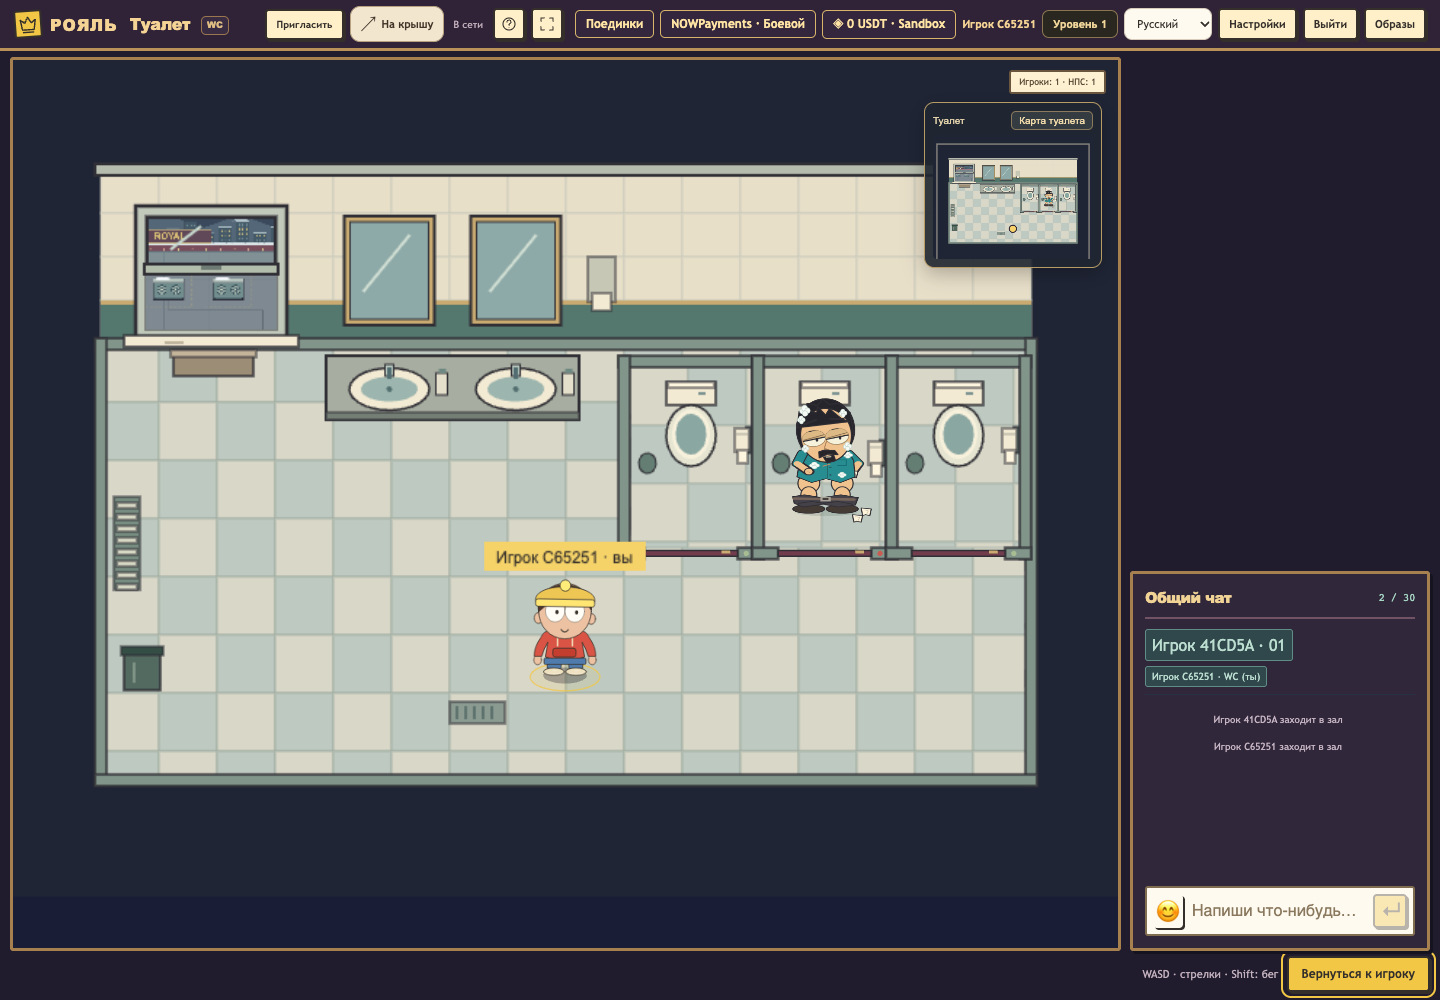
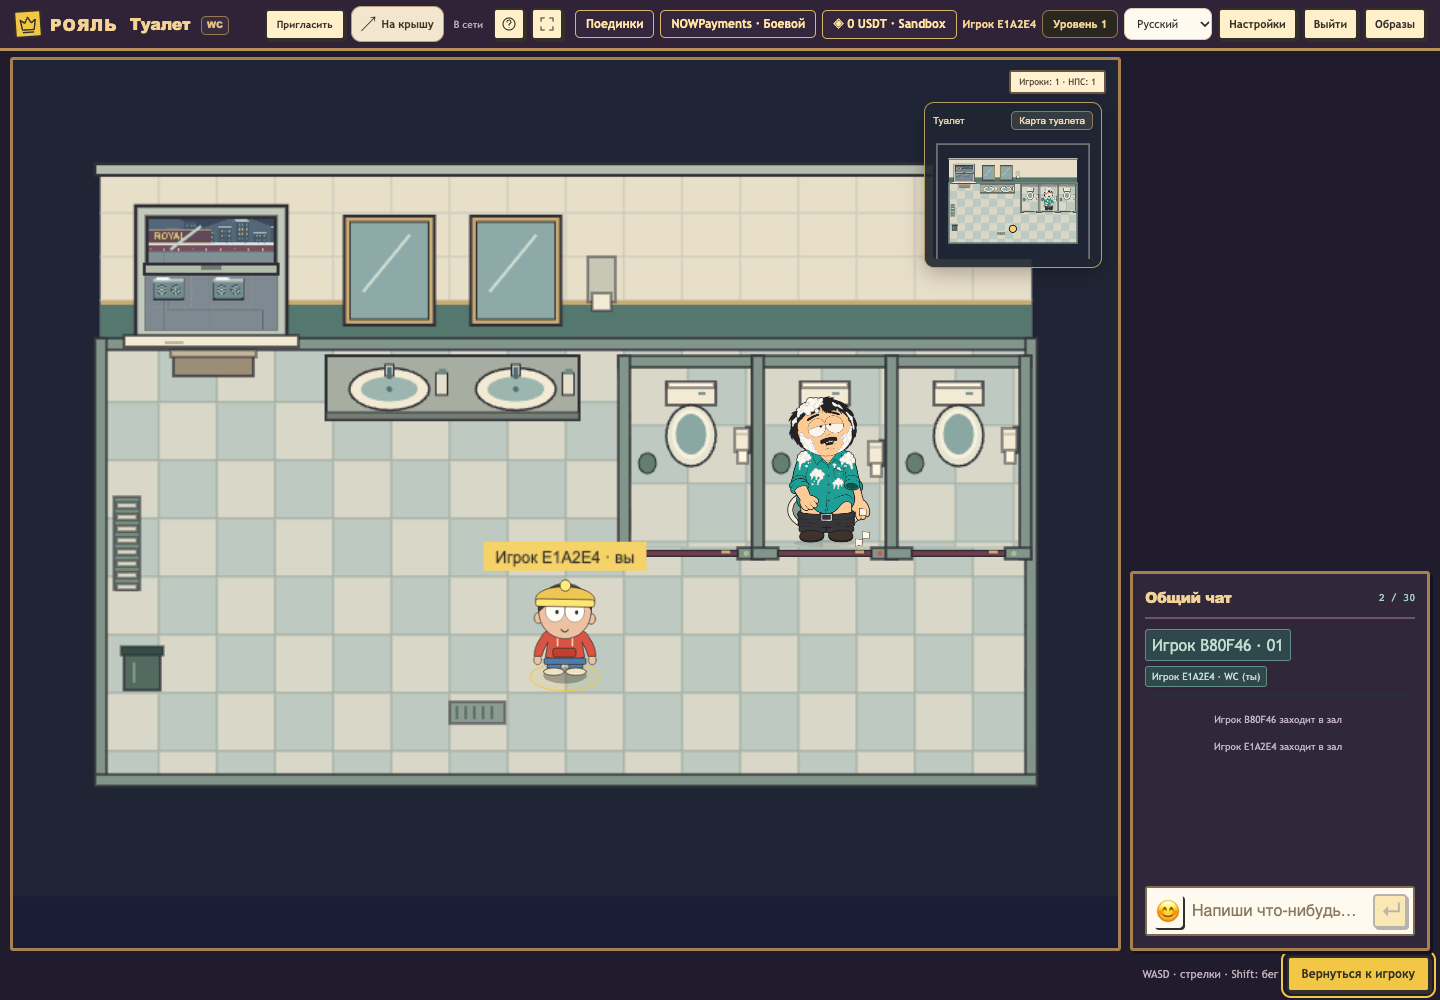
Verify the corrected visitor artwork in the connected casino

diff --git a/tests/toilet-resident.spec.ts b/tests/toilet-resident.spec.ts
@@ -1,6 +1,7 @@
 import {test,expect,type Page} from '@playwright/test';
 import {TOILET,ROOF_TOILET,TOILET_WINDOW,OCCUPIED_TOILET_CUBICLE,toiletCubicleStanding,toiletSinkApproaches} from '../src/shared/toilet';
 import {projectStreetPoint} from '../src/game/streetView';
+import {CASINO_EXIT} from '../src/shared/street';
 import {securityRoom} from './security-room';
 
 const state=(page:Page)=>page.evaluate(()=>(window as any).royalDemo.getState());
@@ -17,6 +18,11 @@ async function walk(page:Page,x:number,y:number){
   await expect.poll(async()=>Math.hypot((await state(page)).x-x,(await state(page)).y-y),{timeout:25000}).toBeLessThan(tolerance);
   await expect.poll(async()=>{const s=await state(page);return Math.hypot(s.x-s.serverX,s.y-s.serverY);}).toBeLessThan(1);
 }
+async function cubicleImage(page:Page,path:string){
+  const s=await state(page),b=(await page.locator('#game canvas').boundingBox())!,p=TOILET.cubicles[OCCUPIED_TOILET_CUBICLE];
+  const sx=s.view.zoom*b.width/s.view.width,sy=s.view.zoom*b.height/s.view.height;
+  await page.screenshot({path,clip:{x:b.x+(p.x-5-s.view.x)*sx,y:b.y+(p.y-5-s.view.y)*sy,width:(p.w+10)*sx,height:(p.h+10)*sy}});
+}
 
 test('occupied toilet visitor animates behind a locked door and leaves the other stalls and exit accessible',async({page,request,context},info)=>{
   test.setTimeout(150000);const errors:string[]=[];page.on('pageerror',e=>errors.push(e.message));
@@ -32,7 +38,7 @@ test('occupied toilet visitor animates behind a locked door and leaves the other
     await expect(page.locator('#join-dialog')).toBeHidden();
     await page.evaluate(()=>new Promise<void>(r=>requestAnimationFrame(()=>requestAnimationFrame(()=>r()))));
     const balance=await page.locator('#wallet-balance').textContent();
-    await page.locator('[data-floor-target="street"]').click();
+    await overview(page);await clickWorld(page,CASINO_EXIT.entry.x,CASINO_EXIT.entry.y);
     await expect.poll(async()=>(await state(page)).hall,{timeout:25000}).toBe('street');
     await overview(page);for(const p of [{x:480,y:1050},{x:480,y:360},{x:1660,y:360}])await walk(page,p.x,p.y);
     await page.locator('#room-overview').click();
@@ -58,6 +64,7 @@ test('occupied toilet visitor animates behind a locked door and leaves the other
     await expect.poll(async()=>(await state(page)).toilet.resident.behindShirt,{timeout:6000,intervals:[80]}).toBe(true);
     expect((await state(page)).toilet.resident.paper).toBe(true);
     await page.screenshot({path:info.outputPath('occupied-toilet.png')});
+    await cubicleImage(page,info.outputPath('resident-wiping.png'));
     await expect.poll(async()=>(await state(page)).toilet.resident.stage,{timeout:6000,intervals:[80]}).toBe('settle');
     for(const q of toiletCubicleStanding){await walk(page,q.x,q.y);expect((await state(page)).toilet.openDoors[q.id]).toBe(true);await walk(page,q.x,430);}
     for(const q of toiletSinkApproaches)await walk(page,q.x,q.y);
@@ -66,6 +73,12 @@ test('occupied toilet visitor animates behind a locked door and leaves the other
     await expect.poll(async()=>{const s=await state(page);return s.hall==='toilet'&&s.online&&!s.locked&&Number.isFinite(s.serverX);}).toBe(true);await overview(page);
     await expect.poll(async()=>(await state(page)).toilet.resident.reducedMotion).toBe(true);
     const still=(await state(page)).toilet.resident;await page.waitForTimeout(300);expect((await state(page)).toilet.resident).toEqual(still);expect(still.stage).toBe('idle');
+    await cubicleImage(page,info.outputPath('resident-resting.png'));
+    if(info.project.name==='desktop'){
+      const viewport=page.viewportSize()!;await page.setViewportSize({width:2400,height:1500});
+      await page.evaluate(()=>new Promise<void>(r=>requestAnimationFrame(()=>requestAnimationFrame(()=>r()))));
+      await cubicleImage(page,info.outputPath('resident-detail.png'));await page.setViewportSize(viewport);
+    }
     await page.emulateMedia({reducedMotion:'no-preference'});
     await page.reload();await expect(page.locator('#chat-input')).toBeEnabled({timeout:25000});
     await expect.poll(async()=>{const s=await state(page);return s.hall==='toilet'&&s.online&&!s.locked&&Number.isFinite(s.serverX);}).toBe(true);await overview(page);
@@ -74,5 +87,5 @@ test('occupied toilet visitor animates behind a locked door and leaves the other
   }catch(error){
     const s=await state(page);console.log('Toilet route failure',JSON.stringify({hall:s.hall,x:s.x,y:s.y,serverX:s.serverX,serverY:s.serverY,locked:s.locked,switching:s.switching,nav:s.stairNavigation,errors}));
     await page.screenshot({path:info.outputPath('route-diagnostic.png')});throw error;
-  }finally{await page.goto('about:blank');await Promise.race([host.room.leave(),new Promise(r=>setTimeout(r,1500))]);}
+  }finally{if(!page.isClosed())await page.goto('about:blank').catch(()=>{});await Promise.race([host.room.leave(),new Promise(r=>setTimeout(r,1500))]);}
 });

diff --git a/docs/concepts/casino-toilet-resident-verification.md b/docs/concepts/casino-toilet-resident-verification.md
@@ -1,25 +1,25 @@
-# Проверка посетителя туалета
+# Проверка посетителя по выбранному референсу
 
-Дата: 2026-11-05. Локальная версия: http://127.0.0.1:5191/. На боевой сервер этот НПС не публиковался.
+Дата: 2026-11-05. Локальная игра: http://127.0.0.1:5191/. Изменение относится к внешности НПС, публикация на боевой сервер не выполнялась.
 
-Исходники предпросмотра: `466a962be009d610914e8a59bc1862058cc87479`. Основа сцены: опубликованный casino-street `59c1202b466e4f3507e82c5f016240af95dbf5d2`; добавлена только занятая кабинка и её посетитель. Точные входы закреплены в `deployment/previews/toilet-resident/`. Остальные неопубликованные изменения main не включены в локальную сборку.
+Исходники хоста: `afaefbecfae13f55f645f8e9d2711dd6ea620c0f`, ветка GitHub `feature/toilet-resident`. Основа локальной сцены: опубликованный casino-street `59c1202b466e4f3507e82c5f016240af95dbf5d2`. Сборка закреплена в `deployment/previews/toilet-resident/host-projection.json`. Backend остаётся на прежней проверенной геометрии занятой кабинки: `466a962be009d610914e8a59bc1862058cc87479`.
 
-- TypeScript: проверка без ошибок.
-- Серверные проверки туалета: 6 из 6.
-- Движение, предсказание, лестница, окно и лифт: 48 из 48.
-- Настоящий подключённый зал: 2 из 2 сценариев, 1440x1000 и 390x844, чат включён.
-- Путь: улица, задняя лестница, крыша, окно туалета, соседние кабинки, раковины, выход обратно на крышу.
-- Средняя дверь остаётся закрытой. Маршрут мышью внутрь не строится, ходьба и Shift упираются в дверь и на клиенте, и на сервере.
-- Проверены фазы бумаги и жеста за рубашкой, статичная поза при уменьшенном движении, доступность двух остальных кабинок, отсутствие ошибок браузера и сохранение баланса.
+## Результат
 
[2 lines of base64/hex data omitted]
 
[1 lines of base64/hex data omitted]
+## Проверки
 
-Снимки: [компьютер](casino-toilet-resident/runtime-desktop.png), [мобильный экран](casino-toilet-resident/runtime-mobile.png).
+- TypeScript: без ошибок.
+- Проверки туалета, маршрутов, серверных переходов и фаз анимации: 6 из 6.
+- Подключённый зал с чатом, desktop 1440x1000: сценарий прошёл, улица, задняя лестница, крыша, туалет и обратно.
+- Подключённый зал с чатом, mobile 390x844: сценарий прошёл на той же сборке.
+- Проверены версия спрайта 2 и фактическая загрузка изображения, жест с бумагой, возврат к покою, статичная поза при уменьшенном движении.
+- Дверь средней кабинки закрыта. Маршрут мышью, ходьба и Shift не дают пройти внутрь. Две соседние кабинки, раковины и окно доступны. Баланс сохранён, ошибок JavaScript не было.
+- Крупный снимок кабинки сделан в том же host при размере окна 2400x1500; для обычного прогона размер восстановлен.
 
-## Временные файлы
+Первый прерванный запуск завершился по времени ожидания после долгой паузы. Следующий desktop-прогон не завершил переход по верхней кнопке «На улицу» ещё на первом этаже. Этот отдельный сценарий не исправлялся при замене спрайта. Повтор desktop через отрисованный выход на карте прошёл. Мобильный прогон по верхней кнопке прошёл.
 
-Удалён только собственный каталог `artifacts/work/toilet-resident-20261105/`: 754001 байт (журналы, промежуточные доказательства сборки, временная настройка проверок и копии двух снимков). Архивов не создавалось. Итоговые снимки сохранены рядом с этим отчётом. Свободно до очистки: 33679261696 байт; после: 33679118336 байт. Изменение свободного места не приписывается только этой очистке.
[1 lines of base64/hex data omitted]
 
-Активный предпросмотр, его исходная временная база, обычные каталоги сборки и общие зависимости сохранены. Их условие очистки: завершение локального предпросмотра пользователем. Другая рабочая папка и чужие файлы не изменялись.
+Снимки: [кабинка крупно](casino-toilet-resident/runtime-resident.png), [компьютер с чатом](casino-toilet-resident/runtime-desktop.png), [телефон с чатом](casino-toilet-resident/runtime-mobile.png).
